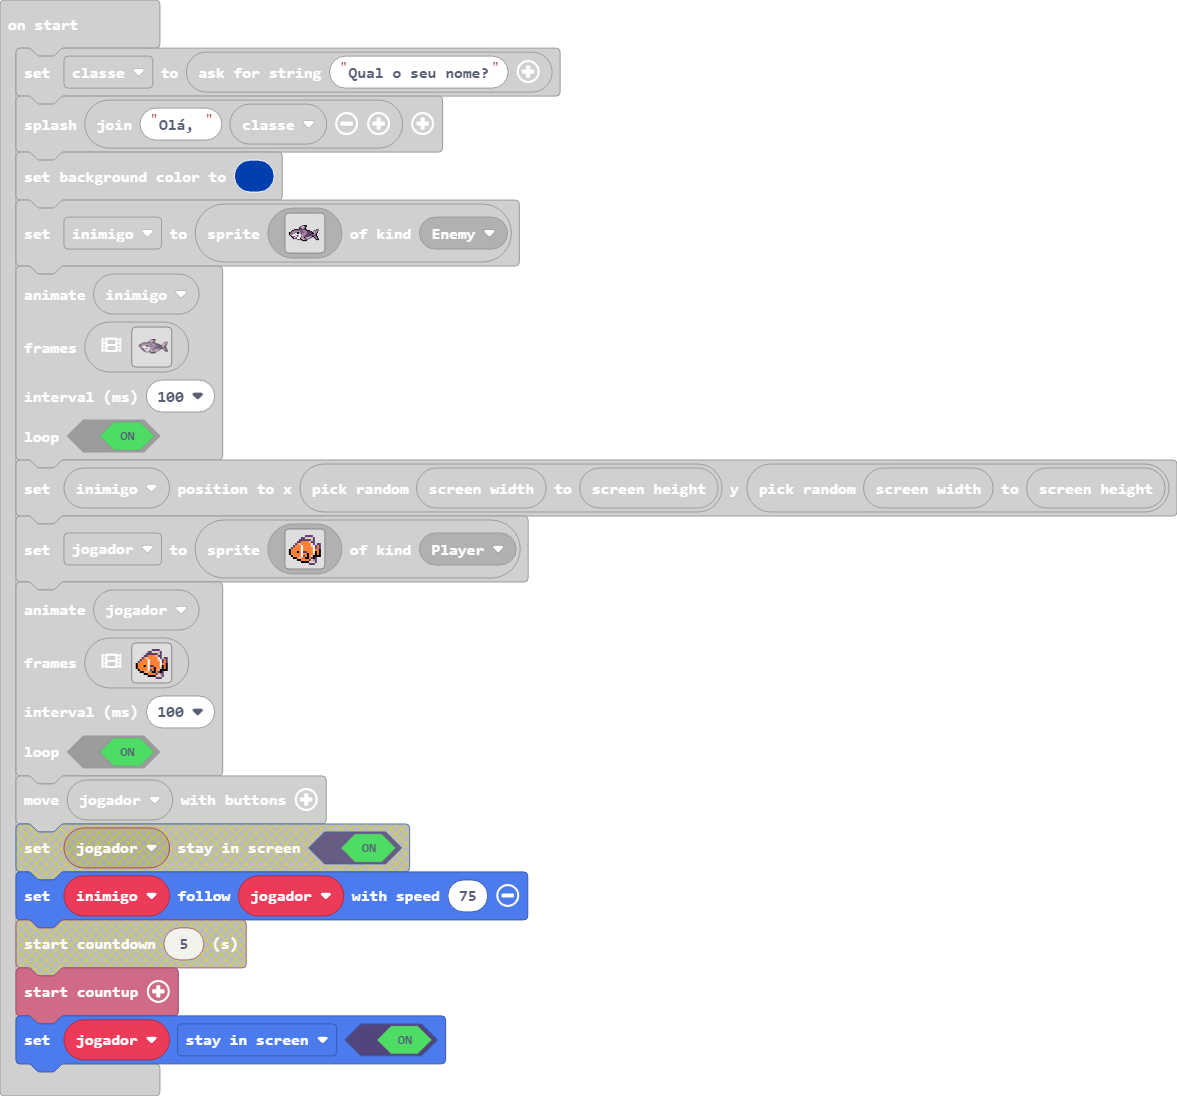
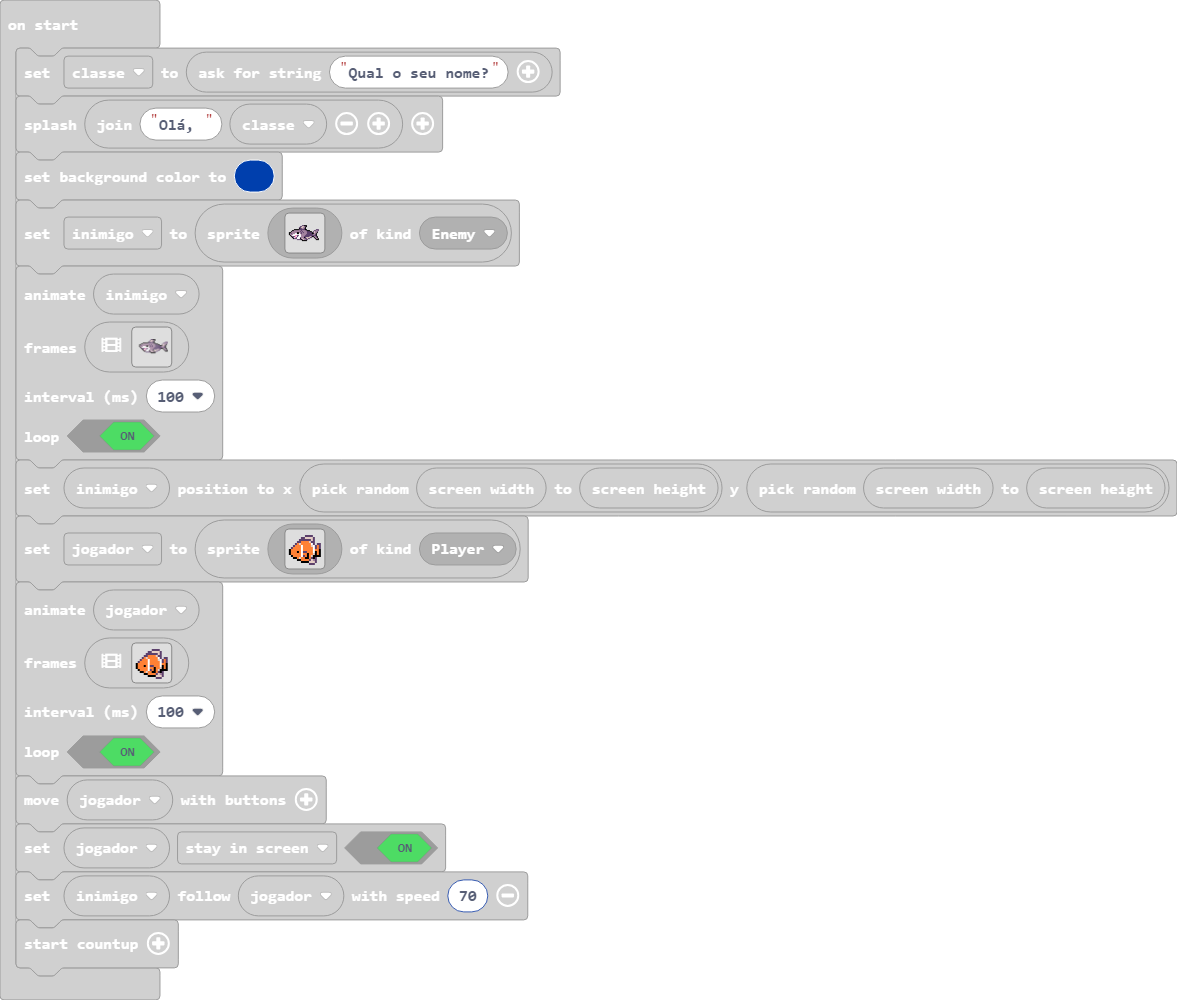
Update main.blocks, main.ts

Changed region(s): [[0.0, 0.0, 1.0, 0.992]]

diff --git a/main.ts b/main.ts
@@ -234,5 +234,5 @@ true
 )
 controller.moveSprite(jogador)
 jogador.setFlag(SpriteFlag.StayInScreen, true)
-inimigo.follow(jogador, 75)
+inimigo.follow(jogador, 70)
 info.startCountup()
